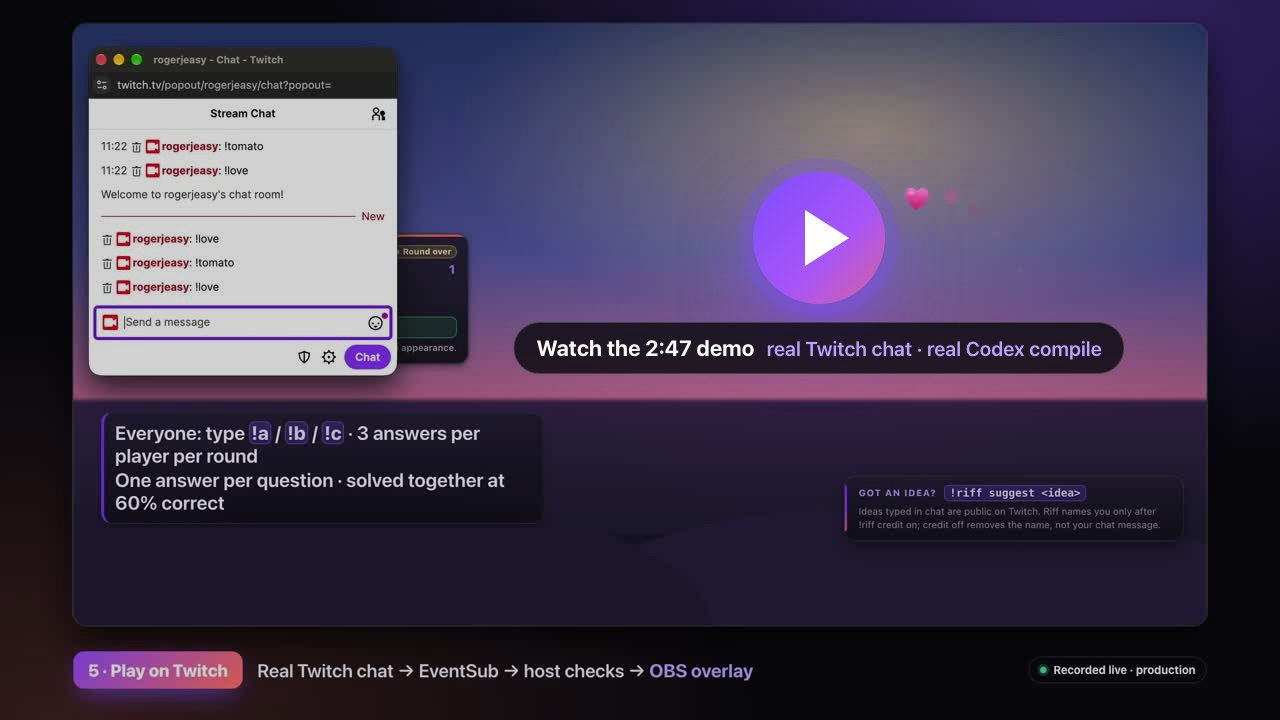
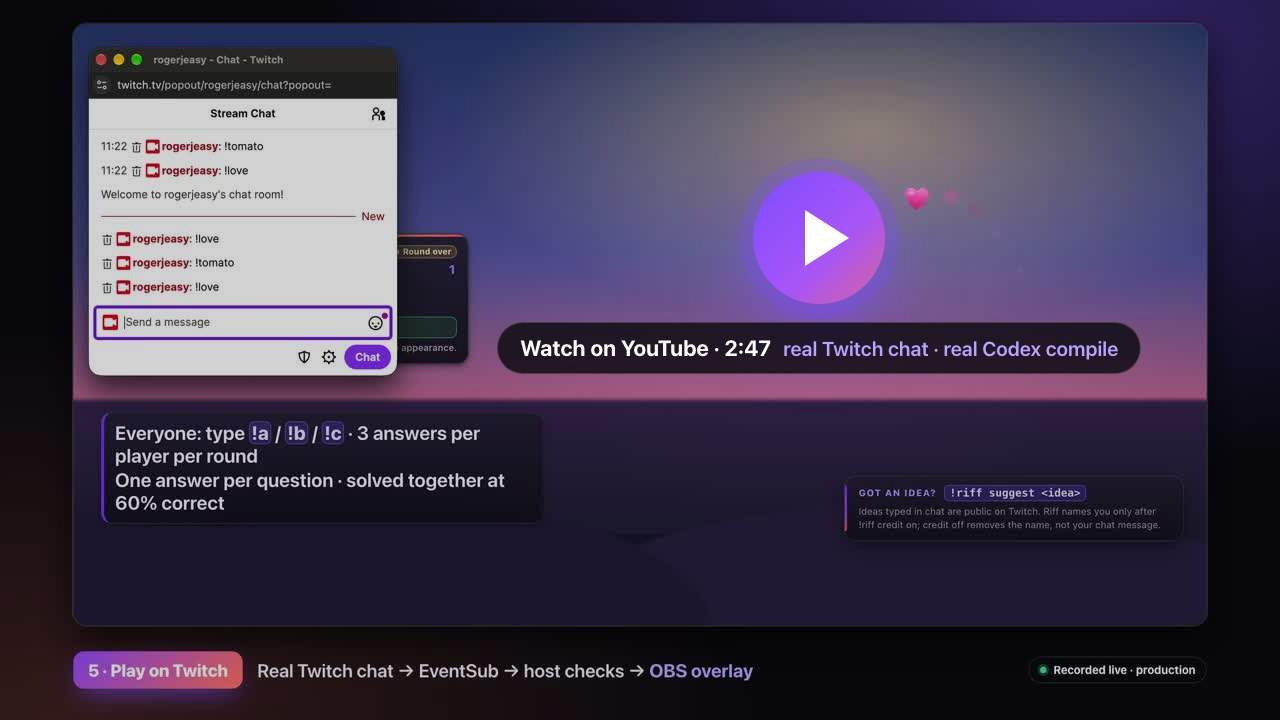
docs: link the README demo poster to the YouTube video
GitHub cannot preview the 29 MB MP4 in the browser, so the poster and the
demo links now open the video on YouTube, as in the wick README. The MP4
stays attached to the v1.0.0 release for download.

Changed region(s): [[0.375, 0.4583, 0.9062, 0.5194]]

diff --git a/README.md b/README.md
@@ -3,13 +3,13 @@
 </p>
 
 <p align="center">
-  <a href="docs/assets/riff-demo.mp4"><img src="docs/assets/riff-demo-poster.jpg" width="100%" alt="Watch the 2:47 Riff demo: real Twitch chat sends !love and !tomato while hearts and tomatoes fly across the Riff overlay."></a>
+  <a href="https://youtu.be/EDgzq_fIspc"><img src="docs/assets/riff-demo-poster.jpg" width="900" alt="The Riff demo, 2 minutes 47 seconds: real Twitch chat sends !love and !tomato while hearts and tomatoes fly across the Riff overlay, with a play button. Click to watch on YouTube."></a>
 </p>
 
 <p align="center">
-  <strong>▶ <a href="docs/assets/riff-demo.mp4">Watch the demo (2:47)</a></strong>: the problem, the approach, then a live run on
+  <strong>▶ <a href="https://youtu.be/EDgzq_fIspc">Watch the demo on YouTube (2:47)</a></strong>: the problem, the approach, then a live run on
   production. Codex compiles a sentence, Riff verifies and rehearses it, and real Twitch chat
-  drives the overlay. Also on the
+  drives the overlay. The MP4 is also attached to the
   <a href="https://github.com/rogerjeasy/riff/releases/tag/v1.0.0"><strong>v1.0.0 release</strong></a>.
 </p>
 
@@ -24,6 +24,7 @@
 </p>
 
 <p align="center">
+  <strong><a href="https://youtu.be/EDgzq_fIspc">Demo video</a></strong> ·
   <strong><a href="#try-it">Try it</a></strong> ·
   <a href="https://github.com/rogerjeasy/riff/releases/tag/v1.0.0">Release v1.0.0</a> ·
   <a href="docs/studio-guide.md">Studio guide</a> ·
